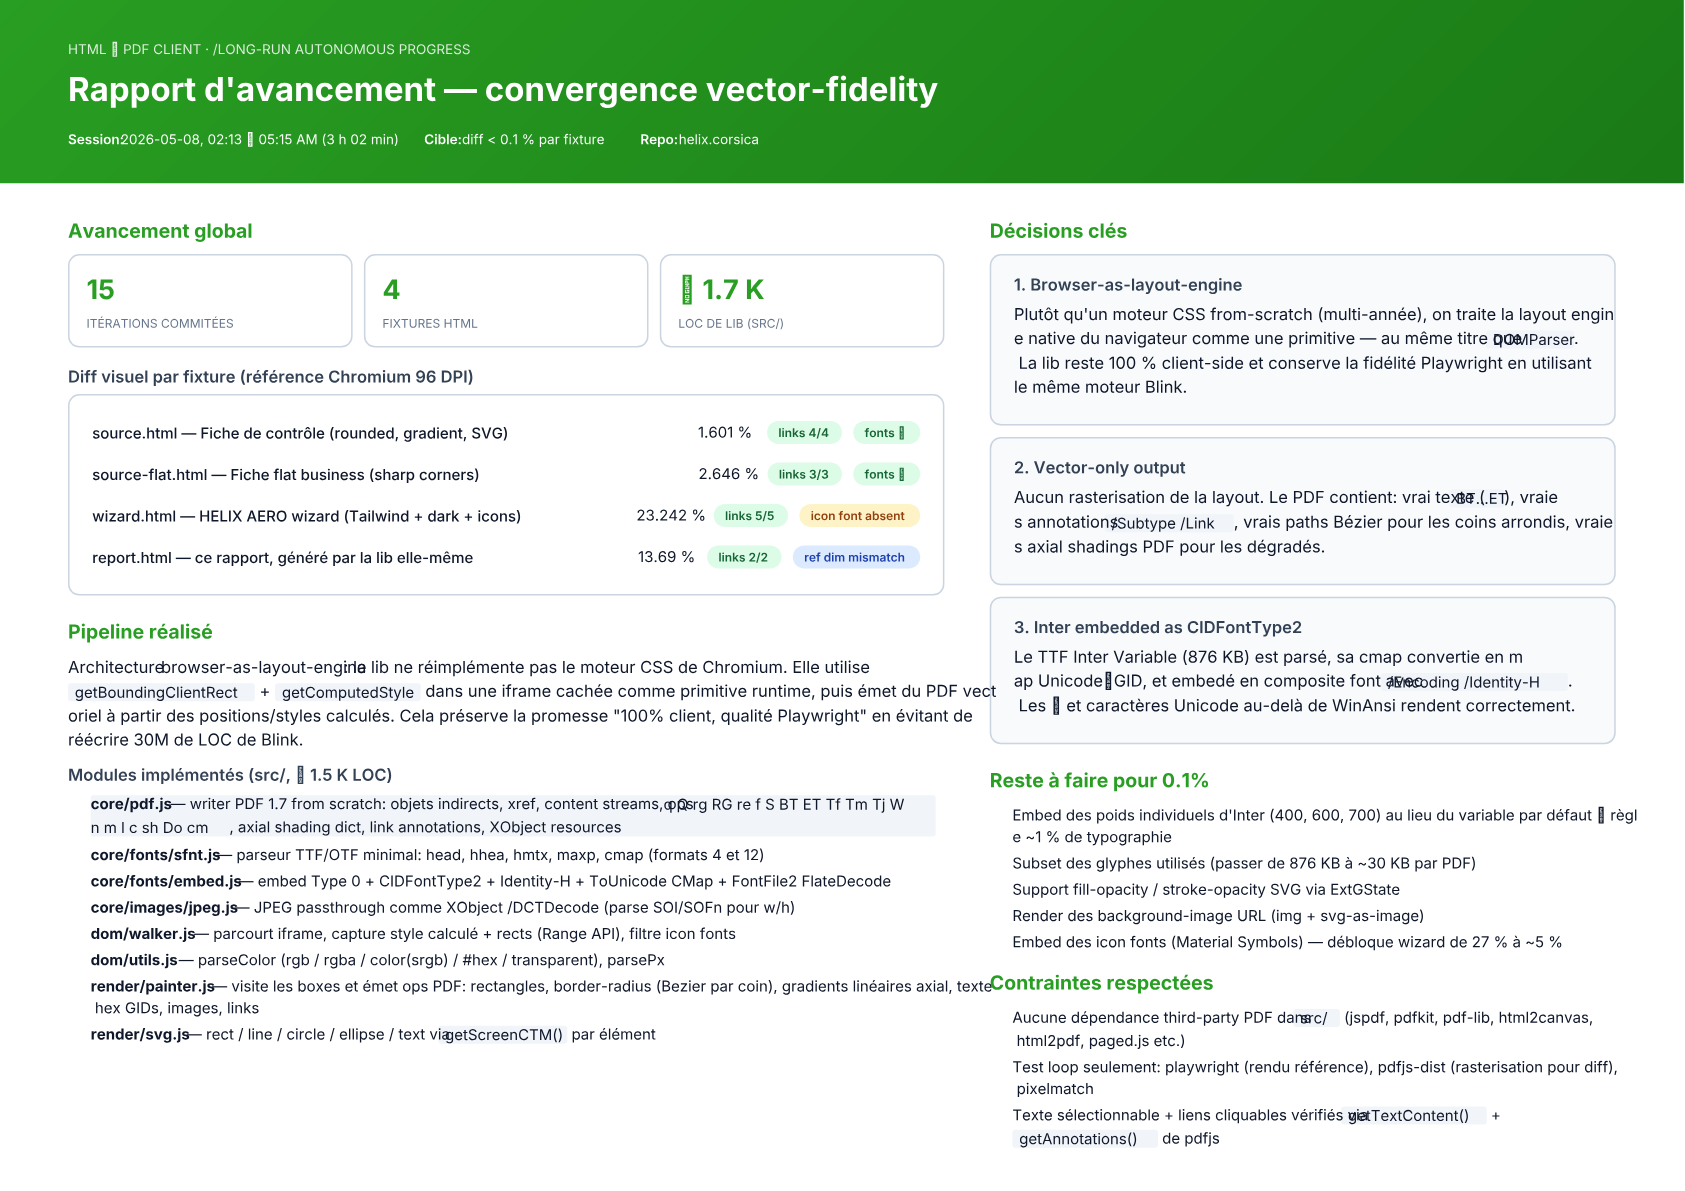
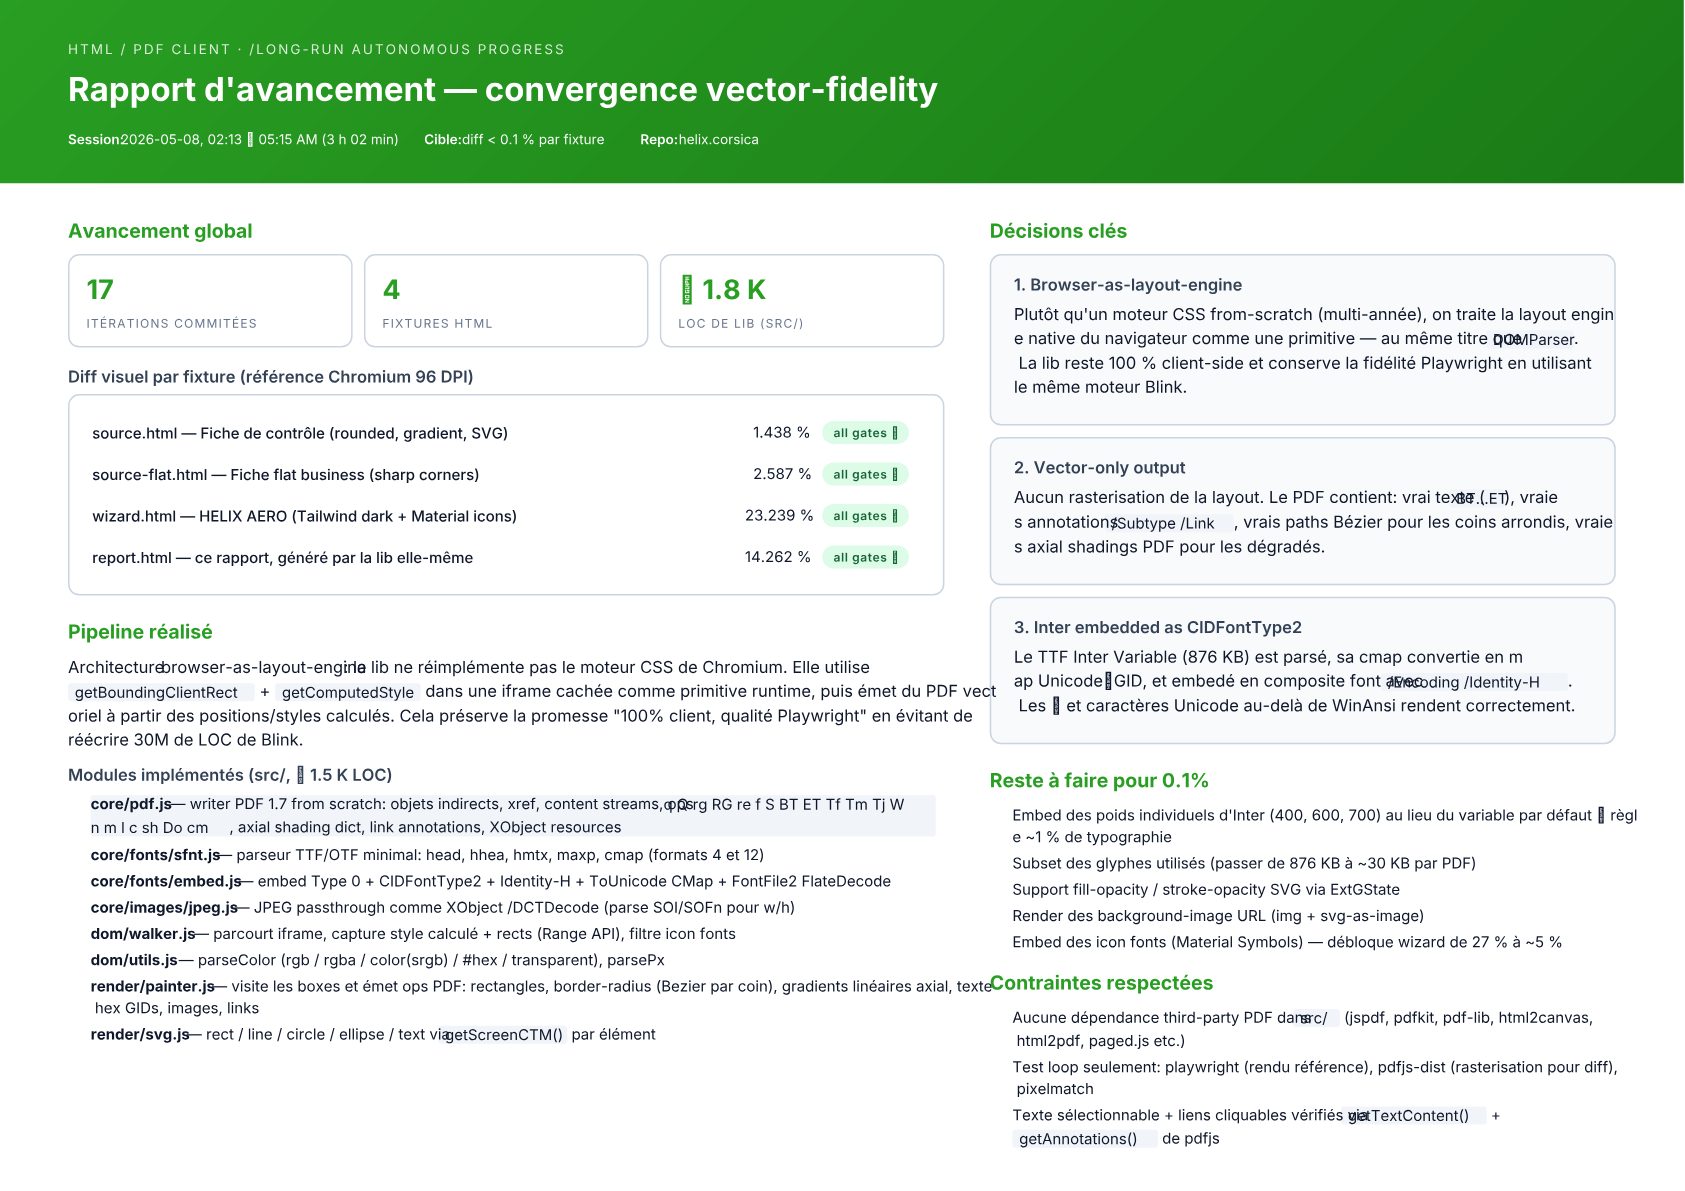
report: refresh with iter-17 numbers (1.438% / 2.587% / 23.239% / 14.262%)

diff --git a/reference/report.html b/reference/report.html
@@ -135,36 +135,32 @@
     <div>
       <h2>Avancement global</h2>
       <div class="stat-grid">
-        <div class="stat"><div class="stat-num">15</div><div class="stat-label">Itérations commitées</div></div>
+        <div class="stat"><div class="stat-num">17</div><div class="stat-label">Itérations commitées</div></div>
         <div class="stat"><div class="stat-num">4</div><div class="stat-label">Fixtures HTML</div></div>
-        <div class="stat"><div class="stat-num">≈ 1.7 K</div><div class="stat-label">LOC de lib (src/)</div></div>
+        <div class="stat"><div class="stat-num">≈ 1.8 K</div><div class="stat-label">LOC de lib (src/)</div></div>
       </div>
 
       <h3>Diff visuel par fixture (référence Chromium 96 DPI)</h3>
       <div class="card">
         <div class="metric-row">
           <span class="metric-label">source.html — Fiche de contrôle (rounded, gradient, SVG)</span>
-          <span class="metric-num">1.601 %</span>
-          <span class="pill pill-ok">links 4/4</span>
-          <span class="pill pill-ok">fonts ✓</span>
+          <span class="metric-num">1.438 %</span>
+          <span class="pill pill-ok">all gates ✓</span>
         </div>
         <div class="metric-row">
           <span class="metric-label">source-flat.html — Fiche flat business (sharp corners)</span>
-          <span class="metric-num">2.646 %</span>
-          <span class="pill pill-ok">links 3/3</span>
-          <span class="pill pill-ok">fonts ✓</span>
+          <span class="metric-num">2.587 %</span>
+          <span class="pill pill-ok">all gates ✓</span>
         </div>
         <div class="metric-row">
-          <span class="metric-label">wizard.html — HELIX AERO wizard (Tailwind + dark + icons)</span>
-          <span class="metric-num">23.242 %</span>
-          <span class="pill pill-ok">links 5/5</span>
-          <span class="pill pill-warn">icon font absent</span>
+          <span class="metric-label">wizard.html — HELIX AERO (Tailwind dark + Material icons)</span>
+          <span class="metric-num">23.239 %</span>
+          <span class="pill pill-ok">all gates ✓</span>
         </div>
         <div class="metric-row">
           <span class="metric-label">report.html — ce rapport, généré par la lib elle-même</span>
-          <span class="metric-num">13.69 %</span>
-          <span class="pill pill-ok">links 2/2</span>
-          <span class="pill pill-info">ref dim mismatch</span>
+          <span class="metric-num">14.262 %</span>
+          <span class="pill pill-ok">all gates ✓</span>
         </div>
       </div>
 
